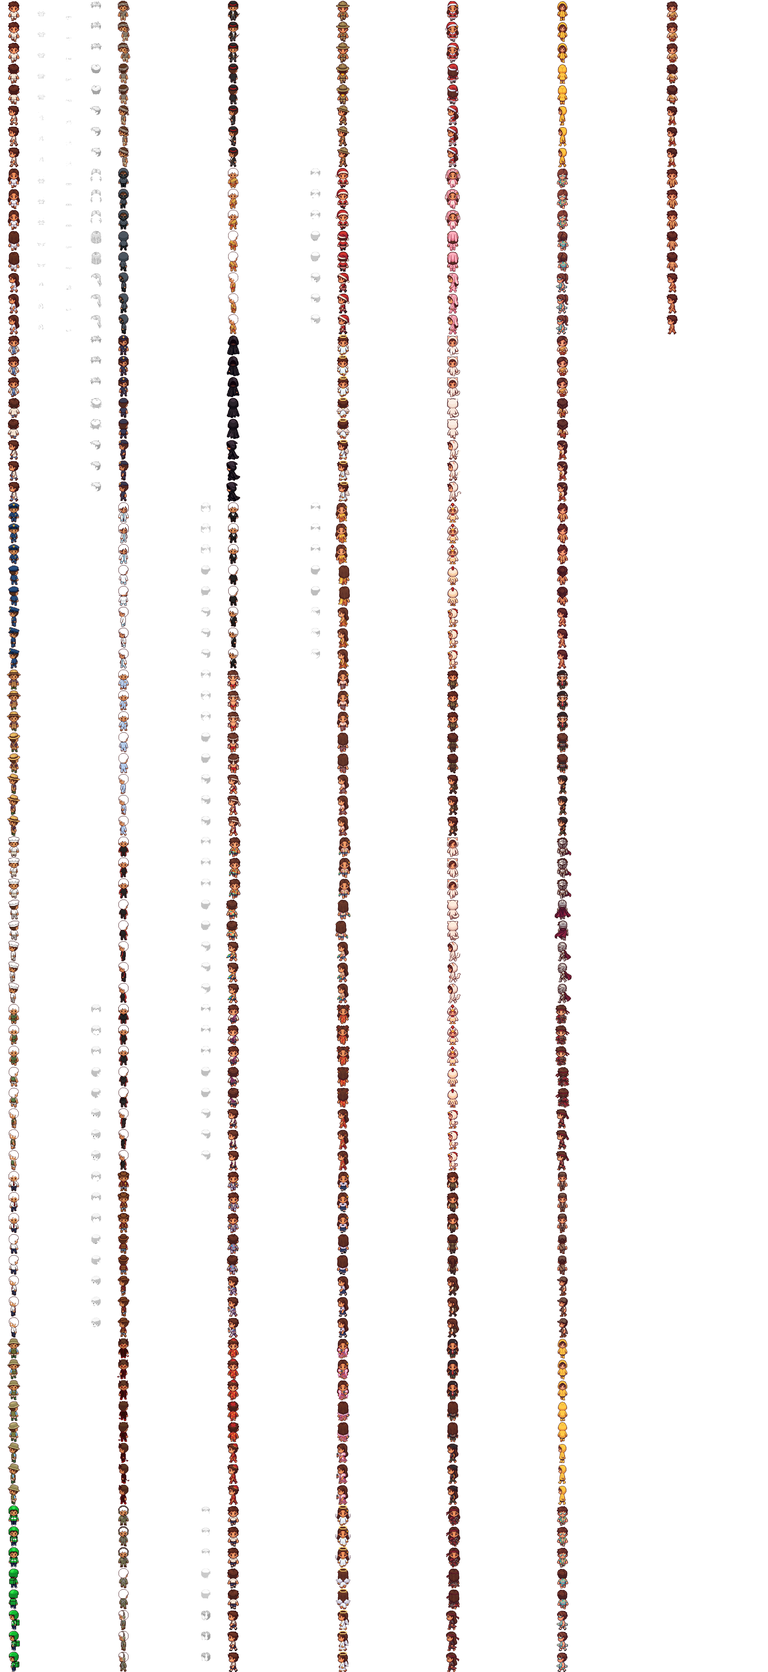
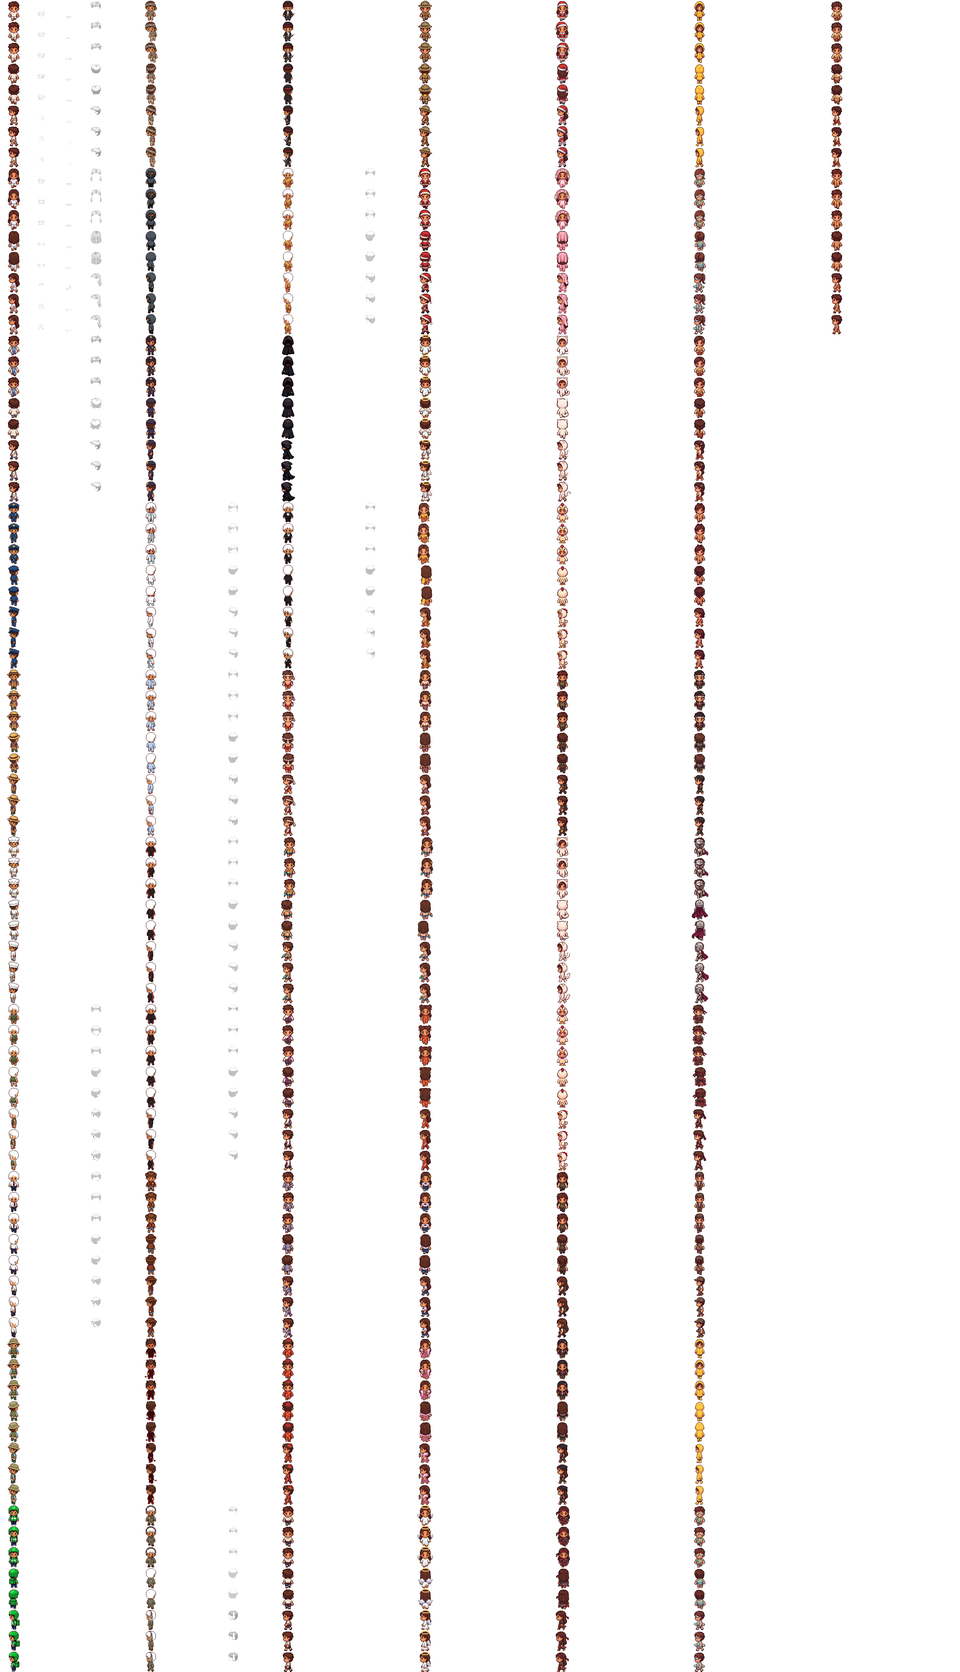
Dyed outfits: cloth-only masks baked into the atlas (skin, hair, outline untouched), each colour a separate shop item; fashion shop split into tabs
Claude-Session: https://claude.ai/code/session_011vTRLcvJmqJKhBboYRSi88

diff --git a/public/game.js b/public/game.js
@@ -107,7 +107,7 @@ const CH_MAX = 1400;
 const chGet = k => { const c = chCache.get(k); if (c) { chCache.delete(k); chCache.set(k, c); } return c; };
 const chPut = (k, c) => { chCache.set(k, c); while (chCache.size > CH_MAX) chCache.delete(chCache.keys().next().value); return c; };
 const whenChars = fn => { if (chImg) fn(); else chWait.push(fn); };
-fetch('assets/pchar.json?v=a5').then(r => r.json()).then(j => { const im = new Image(); im.onload = () => { CH_ATLAS = { ...j, canvas: [j.w, j.h] }; chImg = im; chWait.splice(0).forEach(f => f()); }; im.src = 'assets/pchar.webp?v=a5'; });
+fetch('assets/pchar.json?v=a6').then(r => r.json()).then(j => { const im = new Image(); im.onload = () => { CH_ATLAS = { ...j, canvas: [j.w, j.h] }; chImg = im; chWait.splice(0).forEach(f => f()); }; im.src = 'assets/pchar.webp?v=a6'; });
 const DEFAULT_LOOK = { hair: 'brown', shirt: 'white', pants: 'gray' };
 // starter colours are known before login (the creator screen); everything else comes from the server
 const STARTER_COLORS = { shirt: { white: '#ffffff', blue: '#5aa0e0', green: '#7cc06a', red: '#e0645a' }, hair: { brown: '#6e4528' }, pants: { gray: '#bdbdbd' } };
@@ -115,7 +115,7 @@ const lookColor = (cat, id) => typeof id === 'string' && id[0] === '#' ? id : G?
 // one tinted frame, cached per (frame, colours)
 function charFrame(frame, lk) {
   const key = `${frame}|${lk.shirt}|${lk.pants}|${lk.hair}`; let c = chGet(key); if (c) return c;
-  const { w, h, rows, per } = CH_ATLAS, r0 = rows[frame] ?? 0, bx = per ? Math.floor(r0 / per) * w * 4 : 0, row = per ? r0 % per : r0;   // frames wrap into blocks of `per` rows
+  const { w, h, rows, per } = CH_ATLAS, r0 = rows[frame] ?? 0, bx = per ? Math.floor(r0 / per) * w * CH_ATLAS.layers.length : 0, row = per ? r0 % per : r0;   // frames wrap into blocks of `per` rows
   c = document.createElement('canvas'); c.width = w; c.height = h; const g = c.getContext('2d');
   g.drawImage(chImg, bx, row * h, w, h, 0, 0, w, h);
   const tmp = document.createElement('canvas'); tmp.width = w; tmp.height = h; const t = tmp.getContext('2d');
@@ -131,7 +131,7 @@ function charFrame(frame, lk) {
 }
 // one recoloured layer (hair) of a frame on its own canvas
 function charLayer(frame, col, cat, lk) {
-  const { w, h, rows, per } = CH_ATLAS, r0 = rows[frame] ?? 0, bx = per ? Math.floor(r0 / per) * w * 4 : 0, row = per ? r0 % per : r0;
+  const { w, h, rows, per } = CH_ATLAS, r0 = rows[frame] ?? 0, bx = per ? Math.floor(r0 / per) * w * CH_ATLAS.layers.length : 0, row = per ? r0 % per : r0;
   const c = document.createElement('canvas'); c.width = w; c.height = h; const t = c.getContext('2d');
   t.drawImage(chImg, bx + col * w, row * h, w, h, 0, 0, w, h);
   t.globalCompositeOperation = 'multiply'; t.fillStyle = lookColor(cat, lk[cat]); t.fillRect(0, 0, w, h);
@@ -262,7 +262,7 @@ const MONK_LOOK = { shirt: '#f0a03a', pants: '#e08a26', hair: '#d9a77c' };
 const HAIR_MASKED = {}, HAIR_MASK = {};
 function sheetHasHair(sheet) {
   if (sheet in HAIR_MASKED) return HAIR_MASKED[sheet];
-  const { w, h, rows, per } = CH_ATLAS, r0 = rows[sheet + 'down0'] ?? 0, bx = per ? Math.floor(r0 / per) * w * 4 : 0, row = per ? r0 % per : r0;
+  const { w, h, rows, per } = CH_ATLAS, r0 = rows[sheet + 'down0'] ?? 0, bx = per ? Math.floor(r0 / per) * w * CH_ATLAS.layers.length : 0, row = per ? r0 % per : r0;
   const c = document.createElement('canvas'); c.width = w; c.height = h; const t = c.getContext('2d', { willReadFrequently: true });
   t.drawImage(chImg, bx + 3 * w, row * h, w, h, 0, 0, w, h); const d = t.getImageData(0, 0, w, h).data;
   let n = 0; for (let i = 3; i < d.length; i += 4) if (d[i]) n++;
@@ -288,25 +288,32 @@ function hairFix(fr, outfit, step, gender, lk) {
   t.putImageData(im, 0, 0); return chPut(key, c);
 }
 // skin tone: sprites are drawn with one warm skin; other tones recolour the skin pixels (keeping their shading) per frame
-// 🎨 dyed shop outfits: every clothes pixel (not skin, hair, outline or black) takes the dye's hue; white/grey cloth gets a pastel tint
-const OF_DYE = new Map();
-function outfitDye(fr, hue) {
-  let m = OF_DYE.get(fr); if (!m) OF_DYE.set(fr, m = {}); if (m[hue]) return m[hue];
+// 🎨 dyed shop outfits: only the cloth pixels marked in the atlas 'dye' column (tools/dye_masks.py) take the new hue,
+// so skin, hair, eyes and outlines never change; white cloth gets a soft tint on outfits marked wt
+const OF_DYE = new WeakMap(), OF_MASK = new Map();
+function dyeMask(frame) {
+  let m = OF_MASK.get(frame); if (m) return m;
+  const { w, h, rows, per } = CH_ATLAS, L = CH_ATLAS.layers.length, r0 = rows[frame]; if (r0 === undefined || L < 5) return null;
+  const c = document.createElement('canvas'); c.width = w; c.height = h; const g = c.getContext('2d', { willReadFrequently: true });
+  g.drawImage(chImg, Math.floor(r0 / per) * w * L + 4 * w, (r0 % per) * h, w, h, 0, 0, w, h);
+  m = g.getImageData(0, 0, w, h).data; OF_MASK.set(frame, m); return m;
+}
+function outfitDye(fr, frame, hue, wt, cut) {
+  let m = OF_DYE.get(fr); if (!m) OF_DYE.set(fr, m = {}); const key = hue + '|' + cut; if (m[key]) return m[key];
+  const mk = dyeMask(frame); if (!mk) return fr;
   const c = document.createElement('canvas'); c.width = fr.width; c.height = fr.height; const g = c.getContext('2d', { willReadFrequently: true }); g.drawImage(fr, 0, 0);
-  const d = g.getImageData(0, 0, c.width, c.height), a = d.data, H = hue / 60;
-  for (let i = 0; i < a.length; i += 4) {
-    if (a[i + 3] < 40) continue;
+  const d = g.getImageData(0, 0, c.width, c.height), a = d.data, H = hue / 60, k6 = Math.floor(H) % 6, f = H - Math.floor(H);
+  for (let i = cut * c.width * 4; i < a.length; i += 4) {
+    if (a[i + 3] < 40 || mk[i + 3] < 128) continue;
     const r = a[i], gg = a[i + 1], b = a[i + 2], mx = Math.max(r, gg, b), mn = Math.min(r, gg, b), v = mx / 255;
-    if (v < .24 || isSkin(r, gg, b)) continue;
-    let s = mx ? (mx - mn) / mx : 0, h = 0;
-    if (mx > mn) { h = mx === r ? ((gg - b) / (mx - mn)) % 6 : mx === gg ? (b - r) / (mx - mn) + 2 : (r - gg) / (mx - mn) + 4; h *= 60; if (h < 0) h += 360; }
-    if (s > .28 && h < 45 && v < .62) continue;              // brown hair, leather, wood
+    let s = mx ? (mx - mn) / mx : 0;
+    if (s <= .2 && !(wt && v > .55)) continue;
     if (s < .15) s = .3;
-    const f = H - Math.floor(H), p = v * (1 - s), q = v * (1 - s * f), t = v * (1 - s * (1 - f)), k = Math.floor(H) % 6;
-    const [R, G2, B2] = [[v, t, p], [q, v, p], [p, v, t], [p, q, v], [t, p, v], [v, p, q]][k];
+    const p = v * (1 - s), q = v * (1 - s * f), t = v * (1 - s * (1 - f));
+    const [R, G2, B2] = [[v, t, p], [q, v, p], [p, v, t], [p, q, v], [t, p, v], [v, p, q]][k6];
     a[i] = R * 255; a[i + 1] = G2 * 255; a[i + 2] = B2 * 255;
   }
-  g.putImageData(d, 0, 0); return (m[hue] = c);
+  g.putImageData(d, 0, 0); return (m[key] = c);
 }
 const SKIN_REF = [239, 150, 94], SKIN_COL = { fair: [247, 205, 176], light: [242, 185, 141], brown: [185, 112, 63], dark: [127, 74, 43] };
 const skinMemo = new WeakMap();
@@ -336,7 +343,7 @@ function drawCharTo(g, p, fx, fy, k, view, step, faceLeft, seated) {
   const fem = p.g === 'f' && sheet && outfit === sheet + ':' && sheet === sheet0 && FEM_HEAD[sheet] && CH_ATLAS.rows['f:down0'] !== undefined;
   const fr0 = fem ? femOutfitFrame(sheet, WALK[view][step % 4], lk) : charFrame(outfit + WALK[view][step % 4], lk);
   const fr1 = !fem && outfit && outfit !== 'f:' ? hairFix(fr0, outfit, WALK[view][step % 4], p.g, lk) : fr0;   // outfit sheets with the hair painted in: dye it
-  const fm = p.of === 'monk' && monkFrame(WALK[view][step % 4]), frS = lk.skin && lk.skin !== 'warm' ? skinFix(fr1, lk.skin) : fr1, fr = fm || (p.dye ? dyeFrame(frS, p.dye) : ofd?.hue !== undefined ? outfitDye(frS, ofd.hue) : frS);
+  const fm = p.of === 'monk' && monkFrame(WALK[view][step % 4]), frS = lk.skin && lk.skin !== 'warm' ? skinFix(fr1, lk.skin) : fr1, fr = fm || (p.dye ? dyeFrame(frS, p.dye) : ofd?.hue !== undefined ? outfitDye(frS, outfit + WALK[view][step % 4], ofd.hue, ofd.wt, fem && FEM_HEAD[sheet] === 'head' ? FEM_NECK : 0) : frS);
   g.save(); g.translate(fx, fy); if (view === 'side' && !faceLeft) g.scale(-1, 1);
   g.imageSmoothingEnabled = false;
   if (seated) {
@@ -4334,7 +4341,8 @@ const needCareer = c => job(c) || !G.careers[c] ? '' : `<div class="sub" style="
 const NEWS = [
   { v: '2026-11-20f', d: '20 พ.ย. (รอบ 65)', items: [
     '👗 <b>ชุดแฟชั่นใหม่ 11 แบบ</b> ที่ร้านแฟชั่น (มีแบบผู้หญิงด้วย): ชุดนอนลายเสือ · ช่างภาพสายลุย · ชุดกันฝนเหลือง · นักสำรวจป่า · แมวขาวขนฟู · และชุดเพชร 💎 ไก่น้อยกุ๊กกุ๊ก · สายเซิร์ฟฮาวาย · ฮิปฮอปสตรีท · ไทยราชสำนัก · จอมยุทธ์มังกรแดง · อัศวินเกราะเงิน',
-    '🎨 <b>ชุดย้อมสี!</b> กดจุดสีใต้ชุดในร้านแฟชั่นเพื่อดูสีอื่น ชุดเก่าก็มีสีใหม่ด้วย (แต่ละสีซื้อแยกกัน)'] },
+    '🎨 <b>ชุดสีพิเศษ</b> ทั้งชุดใหม่และชุดเก่า แยกเป็นชุดละชิ้น อยู่ในแท็บ 🎨 สีพิเศษ (เปลี่ยนแค่สีผ้า ผิวกับผมเหมือนเดิม)',
+    '👗 ร้านแฟชั่นแบ่งหมวด: ลำลอง · ไทย & เทศกาล · คอสตูม · สีพิเศษ'] },
   { v: '2026-11-20e', d: '20 พ.ย. (รอบ 64)', items: [
     '🪪 <b>หน้าข้อมูลผู้เล่นใหม่</b>: โชว์ตัวละครในชุด สัตว์เลี้ยง และรถของคุณไว้อวด (ตัวละครอยู่หน้ารถเสมอ) · กด ✏ เลือกเองได้จากของที่มี · คนอื่นแตะดูก็เห็น',
     '🏅 เลือกความสำเร็จที่จะโชว์ได้เอง 3 อัน · หน้าข้อมูลเหลือแค่ทรัพย์สินรวมกับความสำเร็จ ดูสะอาดตา',
@@ -5274,13 +5282,14 @@ function renderPanel(p) {
       const ft = 'outfit';   // the shop sells whole outfits only (shirts and trousers are gone)
       return `<h2>👗 ร้านแฟชั่น</h2><div class="sub">${hoursTxt('fashion')} · ขายชุดพิเศษใส่ทั้งตัว แต่งตัวใหม่แล้วมีความสุขเพิ่ม · ชุดที่ซื้อแล้วถอด/ใส่ได้ฟรีตลอด · ย้อมผมที่ร้านทำผม 💈</div>
         ${ft !== 'outfit' ? sec(ft, ft === 'shirt' ? '👕 เสื้อ' : '👖 กางเกง') : `
-        <div class="sub" style="margin-top:10px"><b>👗 ชุดพิเศษ</b> · ใส่ทับทั้งตัว (แทนชุดอาชีพด้วย) · ซื้อครั้งเดียว ถอด/ใส่ได้ตลอด</div><div class="looks">${Object.entries(G.outfitDefs).filter(([id, o]) => (o.price || o.gems) && !o.base && (!o.g || o.g === me.gender || (me.outfits || []).includes(id))).sort(([, x], [, y]) => (x.gems ? 1e12 + x.gems : x.price) - (y.gems ? 1e12 + y.gems : y.price)).map(([bid]) => {
-          const vs = [bid, ...Object.keys(G.outfitDefs).filter(k => G.outfitDefs[k].base === bid)], mine = me.outfits || [];
-          const id = vs.includes(p['dy_' + bid]) ? p['dy_' + bid] : vs.includes(me.outfit) ? me.outfit : bid, o = G.outfitDefs[id];
-          const has = mine.includes(id), on = me.outfit === id;
-          const dots = vs.length > 1 ? `<div class="dyeDots">${vs.map(v => { const h = G.outfitDefs[v].hue; return `<button class="dyeDot ${v === id ? 'on' : ''}" title="${esc(ofName(G.outfitDefs[v]))}" style="background:${h === undefined ? 'conic-gradient(#e55,#ec4,#5c6,#4ae,#a6e,#e55)' : `hsl(${h},75%,58%)`}" data-m="${esc(JSON.stringify({ fn: 'qtab', set: { ['dy_' + bid]: v } }))}">${mine.includes(v) ? '✓' : ''}</button>`; }).join('')}</div>` : '';
-          return `<div class="look ${on ? 'on' : ''}"><canvas data-of="${id}" width="72" height="96"></canvas><small>${esc(ofName(o))}</small>${dots}${has ? B(on ? 'ถอด' : 'ใส่', { t: 'act', st, a: 'outfit', id }, on ? '' : 'good') : B(o.gems ? `💎${o.gems}` : money(o.price), { t: 'act', st, a: 'outfit', id }, '')}</div>`;
-        }).join('')}</div>`}`;
+        <div class="sub" style="margin-top:10px"><b>👗 ชุดพิเศษ</b> · ใส่ทับทั้งตัว (แทนชุดอาชีพด้วย) · ซื้อครั้งเดียว ถอด/ใส่ได้ตลอด</div>${(() => { const CT = [['casual', '👕 ลำลอง'], ['thai', '🇹🇭 ไทย & เทศกาล'], ['costume', '🎭 คอสตูม'], ['dye', '🎨 สีพิเศษ']], oc = CT.some(c => c[0] === p.oc) ? p.oc : 'casual';
+          const ok = ([id, o]) => (o.price || o.gems) && (!o.g || o.g === me.gender || (me.outfits || []).includes(id));
+          const tabs = `<div class="tabs ftabs">${CT.map(([k, l]) => { const n = Object.entries(G.outfitDefs).filter(e => ok(e) && e[1].cat === k).length; return B(`${l} <i class="tcnt">${n}</i>`, { fn: 'qtab', set: { oc: k } }, oc === k ? 'primary' : ''); }).join('')}</div>`;
+          const cost = o => o.gems ? 1e12 + o.gems : o.price;
+          return tabs + `<div class="looks">${Object.entries(G.outfitDefs).filter(e => ok(e) && e[1].cat === oc).sort(([, x], [, y]) => oc === 'dye' ? (x.base > y.base ? 1 : x.base < y.base ? -1 : x.hue - y.hue) : cost(x) - cost(y)).map(([id, o]) => {
+          const has = (me.outfits || []).includes(id), on = me.outfit === id;
+          return `<div class="look ${on ? 'on' : ''}"><canvas data-of="${id}" width="72" height="96"></canvas><small>${esc(ofName(o))}</small>${has ? B(on ? 'ถอด' : 'ใส่', { t: 'act', st, a: 'outfit', id }, on ? '' : 'good') : B(o.gems ? `💎${o.gems}` : money(o.price), { t: 'act', st, a: 'outfit', id }, '')}</div>`;
+        }).join('')}</div>`; })()}`}`;
     }
     case 'police': return `<h2>👮 สถานีตำรวจ</h2><div class="sub">เปิด 24 ชม. · ตำรวจรับเคสตามจับโจร 🚨 เคสหมาหาย 🐕 เล่นจับผิดภาพหาโจร 🔍 และซ้อมยิงเป้า 🎯 · ได้รถสายตรวจขับฟรี · ต้องจบ ม.6 และสอบนายสิบตำรวจที่มหาวิทยาลัย</div>${staffHint('police')}${job('police') ? dogBox(st) : ''}`;
     case 'square': return `<h2>📋 ศาลาประชาคม</h2><div class="sub">${hoursTxt('square')} · สมัครเป็นขอทานได้ที่นี่ (เงินสด+ฝากไม่เกิน ฿2,000) · หาเงินโดย<b>วิ่งเก็บขยะ</b>ที่ถังขยะ หรือนั่งขอทาน (ปุ่ม 🥣) · มีเงินเกิน ฿2,000 พ้นจากขอทานอัตโนมัติ</div>${staffHint('beggar')}`;

diff --git a/server/data.js b/server/data.js
@@ -1517,12 +1517,17 @@ const OUTFITS = { fisher: { name: 'ชุดนักตกปลา', how: 'ต
   knight:    { name: 'ชุดอัศวินเกราะเงิน', how: 'ซื้อที่ร้านแฟชั่น', gems: 450 } };
 // 🎨 dyed versions of the shop outfits: same sheet (base), clothes recoloured to one hue on the client; sold like the original
 const DYES = { red: ['แดง', 0], orange: ['ส้ม', 28], yellow: ['เหลือง', 52], green: ['เขียว', 125], sky: ['ฟ้า', 195], blue: ['น้ำเงิน', 228], purple: ['ม่วง', 275], pink: ['ชมพู', 325] };
-const DYE_SETS = { pajama: ['pink', 'sky'], tracksuit: ['red', 'green'], hoodie: ['purple', 'yellow'], devil: ['blue', 'green'], pilot: ['blue', 'red'], songkran: ['pink', 'purple'],
-  bunny: ['sky', 'purple'], chinese: ['blue', 'green'], lukthung: ['pink', 'blue'], muaythai: ['blue', 'green'], student: ['pink', 'sky'],
-  tigerpj: ['pink', 'sky'], raincoat: ['red', 'sky', 'green'], explorer: ['sky', 'purple'], catsuit: ['pink', 'sky'], chicken: ['blue', 'purple'],
-  surf: ['pink', 'purple'], hiphop: ['blue', 'green'], thairoyal: ['pink', 'green'], martial: ['blue', 'purple'], knight: ['blue', 'green'] };
+const DYE_SETS = { tracksuit: ['sky', 'green'], hoodie: ['purple', 'red'], songkran: ['pink', 'purple'], bunny: ['sky', 'purple'], chinese: ['blue', 'purple'],
+  lukthung: ['pink', 'blue'], muaythai: ['blue', 'green'], raincoat: ['red', 'sky', 'green'], catsuit: ['pink', 'sky'], chicken: ['blue', 'purple'],
+  surf: ['pink', 'purple'], hiphop: ['blue', 'green'], martial: ['blue', 'purple'], knight: ['blue', 'red'] };
+const DYE_WHITE = ['catsuit', 'chicken', 'knight'];   // white / silver cloth also takes a soft tint
+// shop tabs
+const OUTFIT_CAT = { casual: ['pajama', 'tracksuit', 'hoodie', 'student', 'scout', 'tigerpj', 'photog', 'raincoat', 'explorer', 'surf', 'hiphop'],
+  thai: ['songkran', 'lanna', 'phasin', 'muaythai', 'lukthung', 'chinese', 'chakri', 'thai', 'thairoyal'],
+  costume: ['bunny', 'catsuit', 'chicken', 'devil', 'cowboy', 'pilot', 'tuxedo', 'magician', 'martial', 'knight'] };
+for (const [c, ids] of Object.entries(OUTFIT_CAT)) for (const id of ids) OUTFITS[id].cat = c;
 for (const [base, ds] of Object.entries(DYE_SETS)) for (const d of ds) { const o = OUTFITS[base], [cn, hue] = DYES[d];
-  OUTFITS[`${base}_${d}`] = { ...o, name: `${o.name} (สี${cn})`, ...(o.nf ? { nf: `${o.nf} (สี${cn})` } : {}), base, hue }; }
+  OUTFITS[`${base}_${d}`] = { ...o, name: `${o.name} (สี${cn})`, ...(o.nf ? { nf: `${o.nf} (สี${cn})` } : {}), base, hue, cat: 'dye', ...(DYE_WHITE.includes(base) ? { wt: 1 } : {}) }; }
 // prestige titles bought with money (a money sink for the rich): not achievements, never counted in the achievement total
 // the supporter title from the ฿49 top-up pack: lasts 30 days per purchase (stacks), sparkly rarity 8
 const PAY_TITLE = { id: 'vip', title: '💖 ผู้สนับสนุนเมือง', r: 8, days: 30 };

diff --git a/public/style.css b/public/style.css
@@ -1435,7 +1435,3 @@ body:has(#fishCue:not(.hidden)) #notices{top:28%}
 .showBox canvas{display:block;max-width:100%;height:auto;image-rendering:pixelated}
 .showEdBtn{display:flex;justify-content:center;margin:4px 0 10px}
 .shNone{width:72px;height:64px;display:flex;align-items:center;justify-content:center;font-size:28px;opacity:.5}
-/* fashion shop: dye colour picker under each outfit */
-.dyeDots{display:flex;gap:4px;justify-content:center;flex-wrap:wrap;margin:2px 0 4px}
-.dyeDot{width:20px;height:20px;min-height:0;padding:0;border-radius:50%;border:2px solid #6b4a1e;font-size:10px;line-height:16px;color:#fff;text-shadow:0 0 2px #000}
-.dyeDot.on{outline:2px solid #ffd34d;outline-offset:1px}

diff --git a/tools/dye_masks.py b/tools/dye_masks.py
@@ -1,0 +1,94 @@
+"""Mark which pixels of an outfit are cloth, so the dyed colour versions recolour only the clothes
+(never skin, hair, eyes or the outline). The mask goes into a 5th atlas column ('dye').
+
+    python3 tools/dye_masks.py [preview.png]
+
+Run after tools/add_fashion.py. Outfits to mask = the bases in server/data.js DYE_SETS (and their 'f' sheets).
+"""
+import json, re, sys, colorsys
+import numpy as np
+from PIL import Image
+from scipy import ndimage as ndi
+
+OUT = 'public/assets/pchar'
+src = open('server/data.js', encoding='utf-8').read()
+sets = re.search(r'const DYE_SETS = \{(.*?)\};', src, re.S).group(1)
+DY = {k: v.split(',') for k, v in re.findall(r"(\w+): \[([^\]]*)\]", sets)}
+DY = {k: [x.strip(" '") for x in v] for k, v in DY.items()}
+HUES = {k: int(v) for k, v in re.findall(r"(\w+): \['[^']+', (\d+)\]", re.search(r'const DYES = \{(.*?)\};', src, re.S).group(1))}
+WT = set(re.search(r'const DYE_WHITE = \[(.*?)\]', src).group(1).replace("'", '').replace(' ', '').split(','))
+
+meta = json.load(open(OUT + '.json')); atl = np.array(Image.open(OUT + '.webp').convert('RGBA'))
+w, h, per = meta['w'], meta['h'], meta['per']; NL = len(meta['layers'])
+rows = {}
+for name, r in meta['rows'].items():
+    bx, y = (r // per) * w * NL, (r % per) * h
+    rows[name] = [atl[y:y + h, bx + c * w:bx + (c + 1) * w].copy() for c in range(NL)]
+    if NL == 4: rows[name].append(np.zeros((h, w, 4), np.uint8))
+meta['layers'] = ['base', 'shirt', 'pants', 'hair', 'dye']; NL = 5
+
+def hsv(img):
+    f = img[..., :3].astype(float) / 255; mx, mn = f.max(2), f.min(2)
+    s = np.where(mx > 0, (mx - mn) / np.maximum(mx, 1e-6), 0)
+    r, g, b = f[..., 0], f[..., 1], f[..., 2]; d = np.maximum(mx - mn, 1e-6)
+    hh = np.where(mx == r, ((g - b) / d) % 6, np.where(mx == g, (b - r) / d + 2, (r - g) / d + 4)) * 60
+    return hh, s, mx
+
+def skin_palette(img):
+    """the face colours of this sheet: warm pixels in the middle of the head of the front frame"""
+    a = img[..., 3] > 0; ys, xs = np.where(a); y0, y1 = ys.min(), ys.max(); x0, x1 = xs.min(), xs.max()
+    hh, s, v = hsv(img); H = y1 - y0
+    reg = np.zeros_like(a); reg[y0 + int(H * .16):y0 + int(H * .40), x0 + (x1 - x0) // 4:x1 - (x1 - x0) // 4] = True
+    warm = reg & a & ((hh < 40) | (hh > 345)) & (s > .24) & (s < .72) & (v > .5)
+    if warm.sum() < 25: return np.zeros((0, 3))
+    cols = img[warm][:, :3].astype(int) // 6 * 6
+    u, n = np.unique(cols, axis=0, return_counts=True)
+    keep = u[n >= max(3, n.max() * .05)]
+    return keep + 3
+
+def mask(img, pal):
+    a = img[..., 3] > 0; hh, s, v = hsv(img); px = img[..., :3].astype(int)
+    m = a & (v > .26)
+    if len(pal):
+        d = np.min(np.sqrt(((px[:, :, None, :] - pal[None, None]) ** 2).sum(3)), 2)
+        m &= d > 30
+    m &= ~((hh >= 4) & (hh <= 40) & (s > .25) & (s < .68) & (v > .5))   # any skin tone (face, hands, side views)
+    m &= ~((s > .28) & ((hh < 42) | (hh > 350)) & (v < .62))      # brown hair / leather / dark red-brown shading
+    m &= (s > .22) | (v > .6)                                   # cloth: coloured, or white/grey cloth
+    lab, n = ndi.label(m)
+    if n: sz = ndi.sum(m, lab, range(1, n + 1)); m = np.isin(lab, [i + 1 for i, z in enumerate(sz) if z >= 6])
+    return m
+
+def dye(img, m, hue, wt):
+    out = img.copy(); hh, s, v = hsv(img)
+    sel = m & ((s > .2) | (wt & (v > .55)))
+    s2 = np.where(s < .15, .3, s); H = hue / 60
+    for (y, x) in zip(*np.where(sel)):
+        r, g, b = colorsys.hsv_to_rgb(hue / 360, s2[y, x], v[y, x]); out[y, x, :3] = [r * 255, g * 255, b * 255]
+    return out
+
+sheets = [o for o in DY if f'{o}:down0' in rows] + ['f' + o for o in DY if f'f{o}:down0' in rows]
+prev = []
+for sh in sheets:
+    pal = skin_palette(rows[f'{sh}:down0'][0])
+    for f in ['down0', 'down1', 'down2', 'up0', 'up1', 'left0', 'left1', 'left2']:
+        n = f'{sh}:{f}'
+        if n not in rows: continue
+        m = mask(rows[n][0], pal); c = np.zeros((h, w, 4), np.uint8); c[m] = 255; rows[n][4] = c
+    base = sh[1:] if sh not in DY else sh
+    img = rows[f'{sh}:down0'][0]; side = rows[f'{sh}:left0'][0]
+    prev.append([img, side] + [dye(x, rows[f'{sh}:{fr}'][4][..., 3] > 0, HUES[d], base in WT) for d in DY[base] for x, fr in ((img, 'down0'), (side, 'left0'))])
+    print(sh, 'skin colours', len(pal))
+
+order = sorted(meta['rows'], key=meta['rows'].get); blocks = -(-len(order) // per)
+out = np.zeros((h * min(per, len(order)), w * NL * blocks, 4), np.uint8)
+for i, name in enumerate(order):
+    bx, y = (i // per) * w * NL, (i % per) * h
+    for c in range(NL): out[y:y + h, bx + c * w:bx + (c + 1) * w] = rows[name][c]
+Image.fromarray(out, 'RGBA').save(OUT + '.webp', 'WEBP', lossless=True); json.dump(meta, open(OUT + '.json', 'w'))
+print('atlas', out.shape)
+if len(sys.argv) > 1:
+    cols = max(len(r) for r in prev); S = Image.new('RGBA', (w * cols, h * len(prev)), (205, 225, 205, 255))
+    for i, r in enumerate(prev):
+        for j, x in enumerate(r): S.alpha_composite(Image.fromarray(x), (j * w, i * h))
+    S.save(sys.argv[1])
